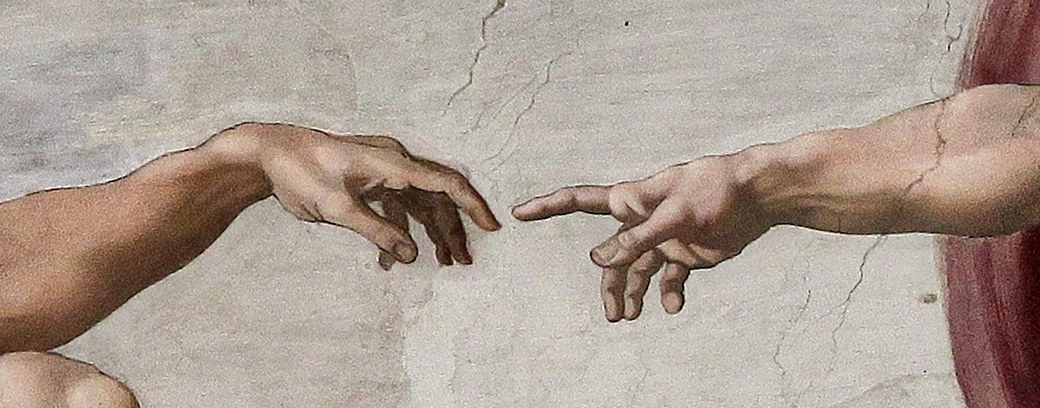
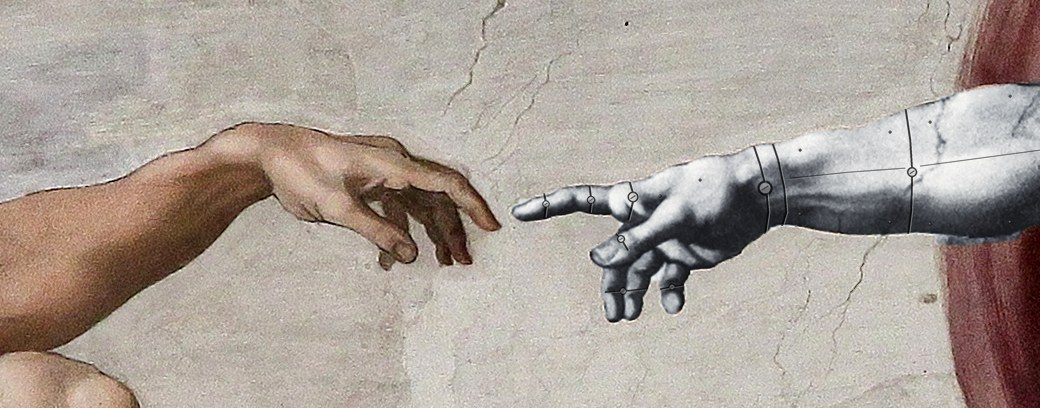
First screen: the hand on the right is a mechanical hand (same place, outline and shading); on upright screens the picture of the /btw block follows the typing

Changed region(s): [[0.4923, 0.1765, 1.0, 0.7941]]

diff --git a/video/site/index.html b/video/site/index.html
@@ -20,15 +20,15 @@
 <link rel="stylesheet" href="../src/base.css">
 <link rel="stylesheet" href="../src/sketch.css">
 <link rel="stylesheet" href="../src/scenes.css">
-<link rel="stylesheet" href="page.css?v=13">
+<link rel="stylesheet" href="page.css?v=15">
 </head>
 <body class="pg">
 
 <header class="pg-hero">
   <h1>Synergia</h1>
   <p class="pg-slogan" id="slogan"></p>
-  <!-- the two hands of Michelangelo's Creation of Adam: where it is from is in art/SOURCE.md -->
-  <figure class="pg-art"><img src="art/creation-hands.jpg" width="1040" height="408" decoding="async" alt="Two hands reaching for each other, the fingers about to touch: a detail of Michelangelo’s Creation of Adam"></figure>
+  <!-- the two hands of Michelangelo's Creation of Adam, the right one made mechanical: where it is from and how it is made is in art/SOURCE.md -->
+  <figure class="pg-art"><img src="art/creation-hands.jpg?v=2" width="1040" height="408" decoding="async" alt="Two hands reaching for each other, the fingers about to touch: a detail of Michelangelo’s Creation of Adam, in which the hand on the right is a mechanical hand"></figure>
   <div class="pg-more" aria-hidden="true"><span>Scroll</span><svg viewBox="0 0 24 24"><path d="m6 9 6 6 6-6"/></svg></div>
 </header>
 
@@ -36,13 +36,13 @@
   <!-- one block = one shot of the film: data-act and data-shot name it in ../src/shots.js; its words come from there too.
        data-tall: on upright screens (phones) the picture is a square part of the window; "seconds share" pairs say where
        its left edge is (share of the window's width) at each time into the shot, and it glides from one to the next -->
-  <section class="pg-band" data-act="explore" data-shot="c2" data-tall="0 0"></section>
+  <section class="pg-band" data-act="explore" data-shot="c2" data-tall="0 0, 1.9 0, 2.7 .085, 4.0 .085, 4.7 0"></section>
   <section class="pg-band" data-act="refs" data-shot="d2" data-tall="0 .34, 0.3 .34, 1.2 .27, 2.9 .27, 3.6 .52, 8.4 .52, 9.2 .27, 11.0 .27, 11.8 .52"></section>
 </main>
 
 <footer class="pg-foot">
   <p>Prototype. The blocks above are drawn live by animation code; no video file is loaded.</p>
-  <p>Painting: Michelangelo, <i>The Creation of Adam</i> (detail), Sistine Chapel, about 1511. Photograph: Jörg Bittner Unna, public domain, via Wikimedia Commons.</p>
+  <p>Picture: after Michelangelo, <i>The Creation of Adam</i> (detail), Sistine Chapel, about 1511; the hand on the right has been changed into a mechanical one. Photograph: Jörg Bittner Unna, public domain, via Wikimedia Commons.</p>
 </footer>
 
 <script src="../node_modules/katex/dist/katex.min.js"></script>
@@ -54,6 +54,6 @@
 <script src="../src/lung.js"></script>
 <script src="../src/scenes/explore.js"></script>
 <script src="../src/scenes/refs.js"></script>
-<script src="page.js?v=13"></script>
+<script src="page.js?v=15"></script>
 </body>
 </html>

diff --git a/video/site/art/make_art.py b/video/site/art/make_art.py
@@ -1,0 +1,112 @@
+"""Makes art/creation-hands.jpg: the two hands of Michelangelo's Creation of Adam, the right one as a mechanical hand.
+
+  python video/site/art/make_art.py <the photograph from Wikimedia Commons> [--plain] [--out file]
+
+The photograph is not kept in this repository (SOURCE.md says where it is). The left hand is the painting as it is.
+The right hand keeps its place, its outline and the painting's own light and shade: its colours are turned to
+metal, and joints, seams and bolts are drawn where the fingers, the wrist and the forearm bend.
+--plain writes the detail unchanged.
+"""
+import sys
+import pathlib
+import numpy as np
+from PIL import Image, ImageDraw, ImageFilter
+
+BOX = (1480, 1262, 2520, 1670)      # the part of the photograph that is used: 1040 x 408
+SS = 4                              # joints and seams are drawn this many times larger, then reduced
+
+# The right hand and forearm, roughly (in the picture's own pixels): colour decides the exact edge inside it.
+HAND = [(506, 212), (523, 197), (547, 186), (570, 182), (600, 183), (627, 177), (643, 172), (667, 163), (693, 157), (720, 150), (747, 143),
+        (767, 137), (800, 128), (840, 122), (880, 117), (920, 104), (953, 96), (1000, 89), (1040, 84), (1040, 232), (1000, 238),
+        (960, 242), (920, 240), (880, 241), (840, 238), (800, 232), (776, 232), (762, 242), (742, 257), (715, 265), (692, 276), (690, 296),
+        (684, 316), (666, 316), (658, 302), (656, 284), (648, 296), (645, 318), (628, 326), (610, 326), (599, 306), (601, 272),
+        (590, 262), (586, 250), (600, 240), (618, 228), (606, 219), (590, 218), (560, 221), (523, 224), (510, 219)]
+
+# Where it bends: (x, y, radius) of a pivot; and lines across (seams between the parts).
+PIVOTS = [(546, 204, 3.6), (591, 200, 4.2), (633, 197, 5.4), (621, 239, 3.8), (623, 291, 3.6), (672, 287, 3.4), (765, 188, 7.5), (912, 172, 5.0)]
+SEAMS = [[(543, 189), (546, 204), (544, 219)], [(589, 183), (591, 200), (589, 217)], [(628, 177), (634, 197), (628, 220)],
+         [(612, 229), (621, 239), (628, 250)], [(605, 292), (623, 291), (645, 289)], [(660, 289), (672, 287), (688, 284)],
+         [(752, 141), (760, 165), (766, 188), (768, 212), (764, 240)], [(770, 136), (778, 160), (784, 188), (786, 212), (780, 232)],
+         [(905, 106), (910, 140), (912, 172), (911, 210), (907, 241)]]
+LINES = [[(790, 178), (850, 172), (905, 168)], [(920, 166), (980, 158), (1040, 150)]]     # along the forearm
+BOLTS = [(800, 150), (800, 214), (890, 132), (890, 222), (930, 122), (930, 224), (1010, 96), (1010, 222), (700, 180), (660, 196)]
+RAMP = [(0.00, (22, 26, 32)), (0.30, (78, 86, 96)), (0.55, (138, 147, 156)), (0.78, (198, 205, 210)), (1.00, (248, 250, 250))]
+
+
+def hand_mask(a):
+    """Which pixels are the right hand: inside the rough outline, and not plaster and not the red cloth."""
+    h, w = a.shape[:2]
+    R, G, B = a[..., 0], a[..., 1], a[..., 2]
+    mx, mn = a.max(-1), a.min(-1)
+    sat = (mx - mn) / np.maximum(mx, 1)
+    lum = 0.299 * R + 0.587 * G + 0.114 * B
+    poly = Image.new("L", (w, h), 0)
+    ImageDraw.Draw(poly).polygon(HAND, fill=255)
+    wide = np.asarray(poly.filter(ImageFilter.MaxFilter(9))) > 0
+    core = np.asarray(poly.filter(ImageFilter.MinFilter(13))) > 0
+    skin = ((sat > 0.105) & (R - B > 16)) | (lum < 150)
+    cloth = (sat > 0.55) & (R < 150) & (R - G > 20) & (G < 60)
+    m = wide & (skin | core) & ~cloth
+    m = Image.fromarray((m * 255).astype("uint8")).filter(ImageFilter.MedianFilter(5)).filter(ImageFilter.MaxFilter(5)).filter(ImageFilter.MinFilter(5)).filter(ImageFilter.MinFilter(3))   # small holes closed; then one pixel in: no rim of plaster
+    return np.asarray(m) > 127, lum
+
+
+def metal(a, m, lum):
+    """The hand's own light and shade, in the colours of steel."""
+    # the photograph's grain would glitter on metal: the light and shade are smoothed a little first
+    smooth = np.asarray(Image.fromarray(np.clip(lum, 0, 255).astype("uint8")).filter(ImageFilter.GaussianBlur(1.3))).astype(float)
+    lum = smooth * 0.8 + lum * 0.2
+    lo, hi = np.percentile(lum[m], [1.5, 99.5])
+    t = np.clip((lum - lo) / (hi - lo), 0, 1)
+    t = t * t * (3 - 2 * t) * 0.55 + t * 0.45            # a little more contrast: metal has harder lights
+    xs = [p for p, _ in RAMP]
+    out = np.stack([np.interp(t, xs, [c[i] for _, c in RAMP]) for i in range(3)], -1)
+    return out * 0.9 + a * 0.1                            # a trace of the fresco's own colour, so that it sits in the picture
+
+
+def details(size, m):
+    """Seams, pivots and bolts, as two layers: what is darkened and what is lightened (drawn large, then reduced)."""
+    w, h = size
+    dark = Image.new("L", (w * SS, h * SS), 0); light = Image.new("L", (w * SS, h * SS), 0)
+    dd, dl = ImageDraw.Draw(dark), ImageDraw.Draw(light)
+    S = lambda pts: [(x * SS, y * SS) for x, y in pts]
+    for line in SEAMS:
+        dd.line(S(line), fill=240, width=round(2.0 * SS), joint="curve")
+        dl.line(S([(x + 1.7, y + 0.5) for x, y in line]), fill=170, width=round(1.0 * SS), joint="curve")
+    for line in LINES:
+        dd.line(S(line), fill=170, width=round(1.2 * SS), joint="curve")
+        dl.line(S([(x, y + 1.3) for x, y in line]), fill=110, width=round(0.8 * SS), joint="curve")
+    for x, y, r in PIVOTS:
+        box = lambda q: [(x - q) * SS, (y - q) * SS, (x + q) * SS, (y + q) * SS]
+        dd.ellipse(box(r), fill=235)                       # a pin seen from its end: a dark ring, a lit face, a slot
+        dl.ellipse(box(r * 0.7), fill=120)
+        dd.ellipse(box(r * 0.7), fill=40)
+        dd.line([((x - r * 0.45) * SS, (y + r * 0.3) * SS), ((x + r * 0.45) * SS, (y - r * 0.3) * SS)], fill=215, width=round(max(0.8, r * 0.2) * SS))
+    for x, y in BOLTS:
+        box = lambda q, ox=0.0, oy=0.0: [(x - q + ox) * SS, (y - q + oy) * SS, (x + q + ox) * SS, (y + q + oy) * SS]
+        dd.ellipse(box(1.5), fill=200)
+        dl.ellipse(box(0.8, -0.3, -0.3), fill=170)
+    f = lambda im: np.asarray(im.resize((w, h), Image.LANCZOS)).astype(float) / 255 * m
+    return f(dark), f(light)
+
+
+def main():
+    args = [x for x in sys.argv[1:] if not x.startswith("--")]
+    out = pathlib.Path(sys.argv[sys.argv.index("--out") + 1]) if "--out" in sys.argv else pathlib.Path(__file__).with_name("creation-hands.jpg")
+    if "--out" in sys.argv: args.remove(str(out))
+    c = Image.open(args[0]).convert("RGB").crop(BOX)
+    if "--plain" not in sys.argv:
+        a = np.asarray(c).astype(float)
+        m, lum = hand_mask(a)
+        soft = np.asarray(Image.fromarray((m * 255).astype("uint8")).filter(ImageFilter.GaussianBlur(0.9))).astype(float)[..., None] / 255
+        hand = metal(a, m, lum)
+        dark, light = details(c.size, m)
+        hand = hand * (1 - 0.78 * dark[..., None]) + (255 - hand) * 0.55 * light[..., None]
+        a = a * (1 - soft) + hand * soft
+        c = Image.fromarray(np.clip(a, 0, 255).astype("uint8"))
+    c.save(out, quality=88, optimize=True, progressive=True)
+    print(out, c.size)
+
+
+if __name__ == "__main__":
+    main()

diff --git a/video/site/art/SOURCE.md b/video/site/art/SOURCE.md
@@ -1,10 +1,20 @@
 # creation-hands.jpg
 
-The two hands of Michelangelo's *The Creation of Adam* (Sistine Chapel ceiling, about 1511).
+The two hands of Michelangelo's *The Creation of Adam* (Sistine Chapel ceiling, about 1511), the right one changed
+into a mechanical hand.
 
 - Cut from: `'Adam's Creation Sistine Chapel ceiling' by Michelangelo JBU33.jpg`, a photograph by Jörg Bittner Unna (2011),
   4810 x 3207, public domain.
   https://commons.wikimedia.org/wiki/File:%27Adam%27s_Creation_Sistine_Chapel_ceiling%27_by_Michelangelo_JBU33.jpg
   (SHA-1 of the file as downloaded on 2026-11-22: 54079e0ad7679bb05e0d9c276c06caa20ded3bc5)
-- The part used: x 1480 to 2520, y 1262 to 1670 (1040 x 408), saved as JPEG. Nothing else was changed: no retouching,
-  no colour correction, no enlarging.
+- The part used: x 1480 to 2520, y 1262 to 1670 (1040 x 408).
+- The left hand and the wall are the photograph as it is: no retouching, no colour correction, no enlarging.
+- The right hand and forearm keep their place, their outline and the painting's own light and shade. Their colours are
+  turned to steel, and joints, seams and bolts are drawn on them. This is done by `make_art.py` (which also says exactly
+  how); nothing is painted by hand and no image generator is used.
+
+To make it again: download the photograph, then
+
+```sh
+python video/site/art/make_art.py "<the photograph>"        # --plain: the detail unchanged
+```

diff --git a/README.md b/README.md
@@ -23,6 +23,7 @@ how many ms), `?snap=0` (no snapping to the middle), `?guide=1` (shows where the
 - `.github/workflows/site-check.yml`: runs the check on Windows in Chrome, Edge, Firefox and WebKit.
 
 The picture on the first screen is a detail of Michelangelo's *The Creation of Adam* (Sistine Chapel, about 1511),
-from a public-domain photograph by Jörg Bittner Unna on Wikimedia Commons; see `video/site/art/SOURCE.md`.
+from a public-domain photograph by Jörg Bittner Unna on Wikimedia Commons, with the hand on the right changed into a
+mechanical hand; see `video/site/art/SOURCE.md`.
 
 The data on screen is public (the `lung` data set of R's survival package, PubMed, ClinicalTrials.gov) or synthetic.
